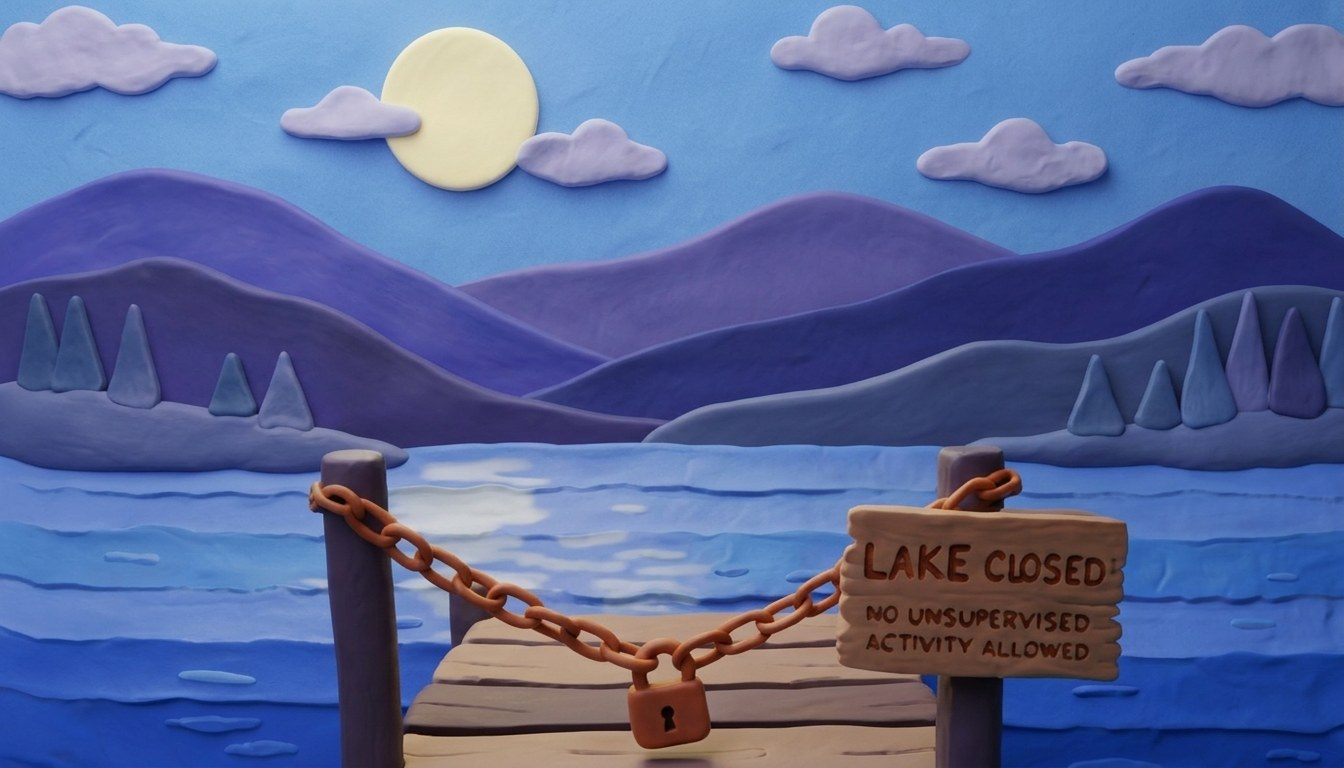
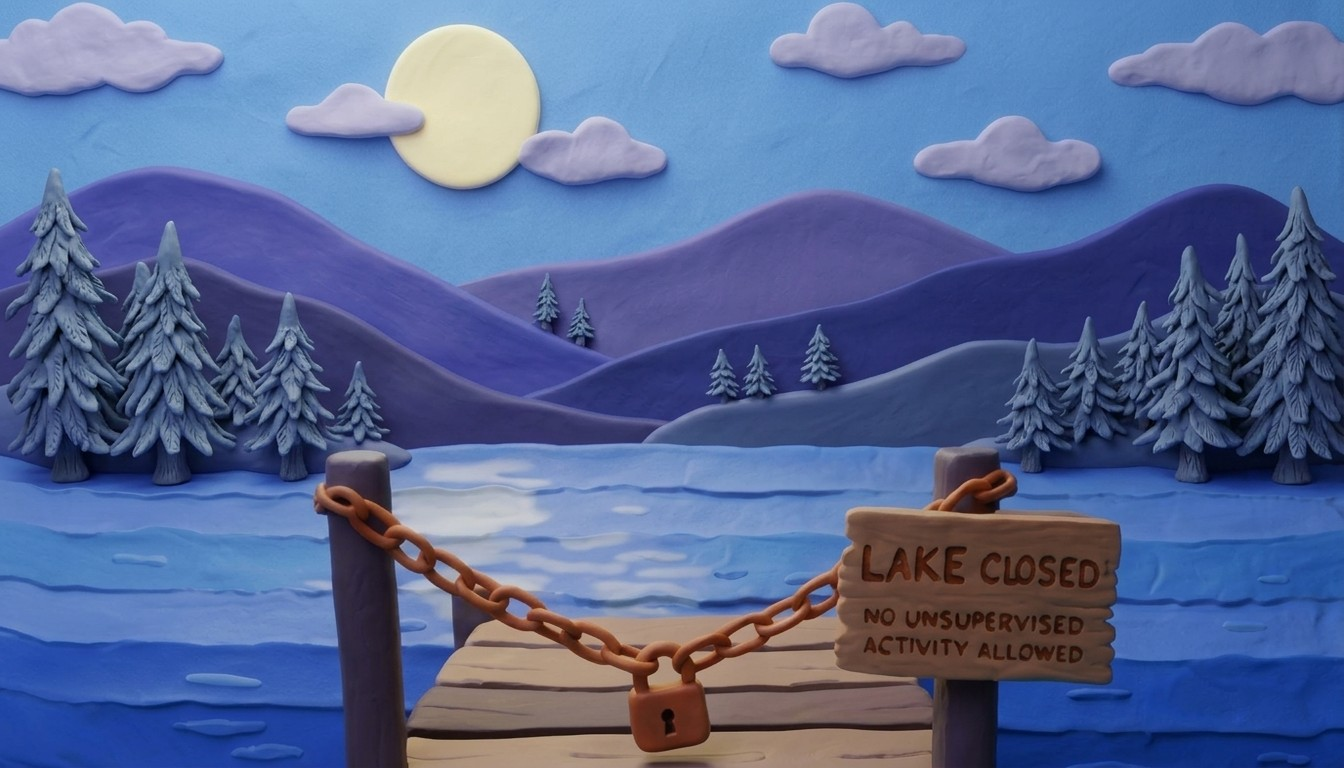
Cabin site: clay trees at the lake and time-of-day sightings (stars, fireflies, deer, fish, ducks, bats, perching bird)
Claude-Session: https://claude.ai/code/session_017UCt1yh6wM11RSMuh2VTku

diff --git a/docs/index.html b/docs/index.html
@@ -91,6 +91,16 @@ button{font:inherit;color:inherit}
 #s-tv.tvoff #pwr i{animation:pwrpulse 1.6s ease-in-out infinite}
 @keyframes pwrpulse{50%{box-shadow:0 0 0 3px #ff6b5e,0 0 26px #ff6b5e}}
 /* ---------- hotspots ---------- */
+.lakelife{position:absolute;pointer-events:none;overflow:hidden}
+.lakelife>*{position:absolute;pointer-events:none}
+.lakelife .star{width:.28%;aspect-ratio:1;border-radius:50%;background:#fffbe8;box-shadow:0 0 6px 2px rgba(255,248,210,.75);translate:-50% -50%;animation:twinkle var(--d,3s) ease-in-out infinite;animation-delay:var(--dl,0s)}
+@keyframes twinkle{0%,100%{opacity:.15;scale:.6}50%{opacity:1;scale:1.15}}
+.lakelife .ffly{width:.36%;aspect-ratio:1;border-radius:50%;background:#f6ff8a;box-shadow:0 0 8px 3px rgba(220,255,90,.8);translate:-50% -50%}
+.lakelife .shoot{height:.25%;width:9%;border-radius:2px;background:linear-gradient(90deg,transparent,#fff);transform-origin:100% 50%;rotate:24deg;opacity:0}
+.lakelife img{display:block;translate:-50% -100%}
+.lakelife.day img{filter:brightness(.88) saturate(.75)}.lakelife.dawn img{filter:brightness(.82) saturate(.8) sepia(.12)}.lakelife.dusk img{filter:brightness(.72) saturate(.85) sepia(.2)}.lakelife.night img{filter:brightness(.55) saturate(.55) hue-rotate(-12deg)}
+.lakelife .ripple{border:2px solid rgba(235,245,255,.75);border-radius:50%;translate:-50% -50%;width:3%;aspect-ratio:3.2;animation:ripple 1.6s ease-out forwards}
+@keyframes ripple{from{scale:.2;opacity:.9}to{scale:2.4;opacity:0}}
 .peekbg{position:absolute;inset:0;transform:scale(1.3) translate(-4%,-14%);transition:transform 1.1s cubic-bezier(.5,0,.2,1);will-change:transform}
 .boards{position:absolute;inset:0;width:100%;height:100%;object-fit:cover;z-index:4;pointer-events:none;filter:brightness(.85)}
 .boards{transition:transform 1.1s cubic-bezier(.5,0,.2,1),filter 1.1s;transform-origin:51% 43%;will-change:transform}
@@ -433,9 +443,10 @@ button{font:inherit;color:inherit}
 
     <section class="scene" id="s-dock" data-crumb="The dock" data-back="inside">
       <div class="peekbg" id="peekbg">
-        <img class="bg" id="dockImg" src="img/dock-night.jpg?v=7" alt="Peeking through the boarded, hacked-up back door at the layered clay lake view from the dock: stacked mountains, puffy clay clouds, the dock chained shut with a padlock and a clay sign reading LAKE CLOSED, NO UNSUPERVISED ACTIVITY ALLOWED" width="1344" height="768">
+        <img class="bg" id="dockImg" src="img/dock-night.jpg?v=8" alt="Peeking through the boarded, hacked-up back door at the layered clay lake view from the dock: stacked mountains, puffy clay clouds, the dock chained shut with a padlock and a clay sign reading LAKE CLOSED, NO UNSUPERVISED ACTIVITY ALLOWED" width="1344" height="768">
         <button class="secret" id="signSpot" style="left:62.5%;top:65.5%;width:21.5%;height:23.5%" aria-label="Read the sign"></button>
         <button class="secret" id="padlock" style="left:44%;top:82%;width:11%;height:16%;cursor:pointer" aria-label="The padlock"></button>
+        <div class="lakelife" id="lakeLife" aria-hidden="true"></div>
         <div class="fog"></div>
       </div>
       <img class="boards" src="img/boards.webp?v=6" alt="" aria-hidden="true">
@@ -982,6 +993,7 @@ button{font:inherit;color:inherit}
   function center(){ vp.scrollLeft=(vp.scrollWidth-vp.clientWidth)/2; $('hint').hidden=vp.scrollWidth<=vp.clientWidth+4 }
   function show(name, from){
     if(name!=='dock') DOCKLOOK.leave(); else if(cur!=='dock') DOCKLOOK.enter();
+    if(window.LAKELIFE){ if(name!=='dock') LAKELIFE.stop(); else if(cur!=='dock') setTimeout(LAKELIFE.start,0) }
     if(name!=='tree' && window.TRIM) TRIM.leave();
     if(name==='altar') name='tv';
     if(SCENES.indexOf(name)<0) name='exterior';
@@ -1202,8 +1214,8 @@ button{font:inherit;color:inherit}
     else if(now>=t.rise+60 && now<t.set-60) ph='day';
     else if(now>=t.set-60 && now<t.set+30) ph='dusk';
     else ph='night';
-    DOCK_PH=ph; if(cur==='dock') K.dock(ph);
-    var img=$('dockImg'), src='img/dock-'+ph+(LAKE_OPEN?'-open':'')+'.jpg?v=7';
+    var phChanged=DOCK_PH!==ph; DOCK_PH=ph; if(cur==='dock'){ K.dock(ph); if(phChanged&&window.LAKELIFE) LAKELIFE.start() }
+    var img=$('dockImg'), src='img/dock-'+((/[?&]lake=(dawn|day|dusk|night)/.exec(location.search)||[])[1]||ph)+(LAKE_OPEN?'-open':'')+'.jpg?v='+(LAKE_OPEN?7:8);
     if(img.getAttribute('src')!==src) img.setAttribute('src',src);
     var after=now>=t.set, before=now<t.rise;
     $('dockClock').innerHTML=fmt(now)+'<small>'+(before?'Sunrise at '+fmt(t.rise):after?'Sun set at '+fmt(t.set):'Sunset at '+fmt(t.set))+'</small>';
@@ -1212,6 +1224,77 @@ button{font:inherit;color:inherit}
     $('dockCount').textContent=days>1?'He surfaces in '+days+' days':days===1?'He surfaces tomorrow':'He has surfaced';
   }
   dockPhase(); setInterval(dockPhase,60000);
+
+  // ---- Life at the lake (George 2026-11-28): every look out is a different sighting for the time of day ----
+  (function(){
+    var LL=$('lakeLife'), sc=$('s-dock'); if(!LL) return;
+    var RM=matchMedia('(prefers-reduced-motion: reduce)').matches, acts=[], timers=[], phNow='', visit=0;
+    function fit(){ var r=sc.getBoundingClientRect(), k=Math.max(r.width/1344,r.height/768), w=1344*k, h=768*k;
+      LL.style.width=w+'px'; LL.style.height=h+'px'; LL.style.left=(r.width-w)/2+'px'; LL.style.top=(r.height-h)/2+'px' }
+    window.addEventListener('resize',fit);
+    function mk(tag,cls,st){ var e=document.createElement(tag); if(cls) e.className=cls; for(var k in st) e.style[k]=st[k]; LL.appendChild(e); return e }
+    function sprite(name,w){ var e=mk('img','',{width:w+'%'}); e.src='img/lake/'+name+'.webp?v=1'; e.alt=''; return e }
+    function later(f,ms){ timers.push(setTimeout(f,ms)) }
+    function R(a,b){ return a+Math.random()*(b-a) }
+    function clear(){ timers.forEach(clearTimeout); timers=[]; acts=[]; LL.innerHTML='' }
+    // path animation helper: f(t) -> {x,y,s?,img?}; t from 0..1 over dur ms
+    function run(e,dur,f,done){ var a={e:e,t0:performance.now(),dur:dur,f:f,done:done}; acts.push(a); return a }
+    function frame(now){ requestAnimationFrame(frame); if(cur!=='dock') return;
+      for(var i=acts.length-1;i>=0;i--){ var a=acts[i], t=Math.min(1,(now-a.t0)/a.dur), p=a.f(t,now);
+        a.e.style.left=p.x+'%'; a.e.style.top=p.y+'%'; if(p.o!=null) a.e.style.opacity=p.o; if(p.tf!=null) a.e.style.transform=p.tf;
+        if(t>=1){ acts.splice(i,1); if(a.done) a.done() } } }
+    requestAnimationFrame(frame);
+    // --- ambient: stars and fireflies at night ---
+    function stars(){ for(var i=0;i<34;i++){ var x=R(2,98), y=R(2,21); if(x>25&&x<42&&y<26) continue;
+        mk('i','star',{left:x+'%',top:y+'%','--d':R(1.8,4.2).toFixed(2)+'s','--dl':'-'+R(0,4).toFixed(2)+'s'}) } }
+    function shooting(){ var s=mk('i','shoot',{}); var x0=R(15,70), y0=R(2,10);
+      run(s,900,function(t){ return {x:x0+t*14,y:y0+t*6,o:t<.2?t*5:1-(t-.2)/.8} },function(){ s.remove() });
+      later(shooting,R(9000,20000)) }
+    function fireflies(){ for(var i=0;i<14;i++){ (function(){ var f=mk('i','ffly',{}), left=Math.random()<.5, bx=left?R(2,22):R(76,98), by=R(44,58), ph=R(0,6.28), sp=R(.4,.9);
+        run(f,1e9,function(t,now){ var s=now/1000*sp+ph; return {x:bx+Math.sin(s*.7)*2.2,y:by+Math.sin(s*1.1)*1.6,o:(.25+.75*Math.max(0,Math.sin(s*2.3)))} }) })() } }
+    // --- sightings ---
+    function fishJump(){ var spots=[[8,68],[14,74],[40,63],[57,62],[92,64],[95,74]], s=spots[Math.random()*spots.length|0], dir=Math.random()<.5?1:-1, f=sprite('fish',2.6);
+      run(f,1300,function(t){ var y=s[1]-Math.sin(t*Math.PI)*7; return {x:s[0]+dir*(t-.5)*6,y:y,tf:'scaleX('+(-dir)+') rotate('+(-dir*(t-.5)*120)+'deg)',o:t<.06||t>.94?0:1} },function(){ f.remove(); mk('i','ripple',{left:(s[0]+dir*3)+'%',top:s[1]+'%'}) });
+      mk('i','ripple',{left:(s[0]-dir*3)+'%',top:s[1]+'%'});
+      later(fishJump,R(5000,11000)) }
+    function deer(){ var x=R(9,17), base=57.4, d=sprite('deer-up',6.2); d.style.transform='scaleX(-1)'; d.style.left=x+'%'; d.style.top=base+'%'; d.style.opacity=0; d.style.transition='opacity 1.5s';
+      later(function(){ d.style.opacity=1 },300);
+      var down=false; (function bob(){ down=!down; d.src='img/lake/deer-'+(down?'drink':'up')+'.webp?v=1'; d.style.width='6.2%'; later(bob,down?R(2600,5200):R(1500,3200)) })() }
+    function ducks(){ var y=59.2;
+      [0,1].forEach(function(i){ var du=sprite('duck',i?2.5:3.1);
+        run(du,RM?1:52000,function(t,now){ return {x:30+t*40-i*3.2,y:y+Math.sin(now/600+i)*.15,o:t<.03?t/.03:t>.97?(1-t)/.03:1} },function(){ du.remove() }) });
+      later(ducks,R(60000,80000)) }
+    function bats(){ var n=3; for(var i=0;i<n;i++){ (function(i){ var b=sprite('bat-up',2.4), y0=R(24,40), dir=Math.random()<.5?1:-1, sp=R(5000,8000);
+        run(b,sp,function(t,now){ var fl=Math.floor(now/110)%2; var want='img/lake/bat-'+(fl?'up':'down')+'.webp?v=1'; if(b.getAttribute('src')!==want) b.setAttribute('src',want);
+          return {x:dir>0?-4+t*108:104-t*108,y:y0+Math.sin(t*18+i)*3,tf:dir>0?'':'scaleX(-1)'} },function(){ b.remove() }) })(i) }
+      later(bats,R(7000,14000)) }
+    function birdPerch(){ var post=Math.random()<.5?{x:26.4,y:58.7}:{x:71.8,y:58.4}, fromL=Math.random()<.5, b=sprite('bird-up',3), sx=fromL?-5:105, sy=R(18,34);
+      if(!fromL) b.style.scale='-1 1';
+      run(b,4200,function(t,now){ var e=1-Math.pow(1-t,2.2), fl=Math.floor(now/120)%2; var nm=t>.82?'bird-land':(fl?'bird-up':'bird-down'); var want='img/lake/'+nm+'.webp?v=1'; if(b.getAttribute('src')!==want) b.setAttribute('src',want);
+        return {x:sx+(post.x-sx)*e,y:sy+(post.y-sy)*e-Math.sin(t*Math.PI)*4} },function(){
+        b.src='img/lake/bird-perch.webp?v=1'; b.style.width='2.4%';
+        // hop and look around, then fly off
+        var hops=0; (function look(){ b.style.scale=(b.style.scale==='-1 1')?'1 1':'-1 1'; if(++hops<5) later(look,R(1200,2600)); else later(function(){ b.src='img/lake/bird-up.webp?v=1'; b.style.width='3%'; var ex=fromL?105:-5;
+            b.style.scale=fromL?'1 1':'-1 1';
+            run(b,3200,function(t,now){ var fl=Math.floor(now/110)%2; b.src='img/lake/bird-'+(fl?'up':'down')+'.webp?v=1'; return {x:post.x+(ex-post.x)*t,y:post.y-t*30} },function(){ b.remove(); later(birdPerch,R(15000,30000)) }) },900) })() }) }
+    function birdsFly(){ for(var i=0;i<2;i++){ (function(i){ var b=sprite('bird-up',2), y=R(10,26), dir=Math.random()<.5?1:-1;
+        if(dir<0) b.style.scale='-1 1';
+        run(b,R(7000,10000),function(t,now){ var fl=Math.floor(now/140+i)%2; var want='img/lake/bird-'+(fl?'up':'down')+'.webp?v=1'; if(b.getAttribute('src')!==want) b.setAttribute('src',want);
+          return {x:dir>0?-4+t*108-i*4:104-t*108+i*4,y:y+Math.sin(t*9+i)*1.5+i*2} },function(){ b.remove() }) })(i) }
+      later(birdsFly,R(14000,26000)) }
+    var POOL={
+      night:[[shooting],[fishJump],[bats],[shooting,fishJump]],
+      dawn:[[fishJump],[birdPerch],[fishJump,birdPerch],[ducks]],
+      day:[[deer,birdPerch],[deer],[birdPerch,fishJump],[ducks,birdsFly],[deer,birdsFly]],
+      dusk:[[bats],[ducks,bats],[deer,bats],[fishJump,ducks]]
+    };
+    function start(){ clear(); fit(); var ph=(/[?&]lake=(dawn|day|dusk|night)/.exec(location.search)||[])[1]||DOCK_PH; phNow=ph; visit++; LL.className='lakelife '+ph;
+      if(ph==='night'){ stars(); fireflies() }
+      if(RM) return;
+      var pool=POOL[ph], pick=pool[(visit*7+Math.floor(Math.random()*pool.length))%pool.length];
+      pick.forEach(function(f,i){ later(f,1200+i*2500) }) }
+    window.LAKELIFE={start:start,stop:clear,play:function(n){ ({deer:deer,ducks:ducks,bats:bats,birdPerch:birdPerch,fishJump:fishJump,birdsFly:birdsFly,shooting:shooting})[n]() }};
+  })();
 
   show(location.hash.slice(1)||'exterior');
 })();

diff --git a/site/world/index.html b/site/world/index.html
@@ -91,6 +91,16 @@ button{font:inherit;color:inherit}
 #s-tv.tvoff #pwr i{animation:pwrpulse 1.6s ease-in-out infinite}
 @keyframes pwrpulse{50%{box-shadow:0 0 0 3px #ff6b5e,0 0 26px #ff6b5e}}
 /* ---------- hotspots ---------- */
+.lakelife{position:absolute;pointer-events:none;overflow:hidden}
+.lakelife>*{position:absolute;pointer-events:none}
+.lakelife .star{width:.28%;aspect-ratio:1;border-radius:50%;background:#fffbe8;box-shadow:0 0 6px 2px rgba(255,248,210,.75);translate:-50% -50%;animation:twinkle var(--d,3s) ease-in-out infinite;animation-delay:var(--dl,0s)}
+@keyframes twinkle{0%,100%{opacity:.15;scale:.6}50%{opacity:1;scale:1.15}}
+.lakelife .ffly{width:.36%;aspect-ratio:1;border-radius:50%;background:#f6ff8a;box-shadow:0 0 8px 3px rgba(220,255,90,.8);translate:-50% -50%}
+.lakelife .shoot{height:.25%;width:9%;border-radius:2px;background:linear-gradient(90deg,transparent,#fff);transform-origin:100% 50%;rotate:24deg;opacity:0}
+.lakelife img{display:block;translate:-50% -100%}
+.lakelife.day img{filter:brightness(.88) saturate(.75)}.lakelife.dawn img{filter:brightness(.82) saturate(.8) sepia(.12)}.lakelife.dusk img{filter:brightness(.72) saturate(.85) sepia(.2)}.lakelife.night img{filter:brightness(.55) saturate(.55) hue-rotate(-12deg)}
+.lakelife .ripple{border:2px solid rgba(235,245,255,.75);border-radius:50%;translate:-50% -50%;width:3%;aspect-ratio:3.2;animation:ripple 1.6s ease-out forwards}
+@keyframes ripple{from{scale:.2;opacity:.9}to{scale:2.4;opacity:0}}
 .peekbg{position:absolute;inset:0;transform:scale(1.3) translate(-4%,-14%);transition:transform 1.1s cubic-bezier(.5,0,.2,1);will-change:transform}
 .boards{position:absolute;inset:0;width:100%;height:100%;object-fit:cover;z-index:4;pointer-events:none;filter:brightness(.85)}
 .boards{transition:transform 1.1s cubic-bezier(.5,0,.2,1),filter 1.1s;transform-origin:51% 43%;will-change:transform}
@@ -433,9 +443,10 @@ button{font:inherit;color:inherit}
 
     <section class="scene" id="s-dock" data-crumb="The dock" data-back="inside">
       <div class="peekbg" id="peekbg">
-        <img class="bg" id="dockImg" src="img/dock-night.jpg?v=7" alt="Peeking through the boarded, hacked-up back door at the layered clay lake view from the dock: stacked mountains, puffy clay clouds, the dock chained shut with a padlock and a clay sign reading LAKE CLOSED, NO UNSUPERVISED ACTIVITY ALLOWED" width="1344" height="768">
+        <img class="bg" id="dockImg" src="img/dock-night.jpg?v=8" alt="Peeking through the boarded, hacked-up back door at the layered clay lake view from the dock: stacked mountains, puffy clay clouds, the dock chained shut with a padlock and a clay sign reading LAKE CLOSED, NO UNSUPERVISED ACTIVITY ALLOWED" width="1344" height="768">
         <button class="secret" id="signSpot" style="left:62.5%;top:65.5%;width:21.5%;height:23.5%" aria-label="Read the sign"></button>
         <button class="secret" id="padlock" style="left:44%;top:82%;width:11%;height:16%;cursor:pointer" aria-label="The padlock"></button>
+        <div class="lakelife" id="lakeLife" aria-hidden="true"></div>
         <div class="fog"></div>
       </div>
       <img class="boards" src="img/boards.webp?v=6" alt="" aria-hidden="true">
@@ -982,6 +993,7 @@ button{font:inherit;color:inherit}
   function center(){ vp.scrollLeft=(vp.scrollWidth-vp.clientWidth)/2; $('hint').hidden=vp.scrollWidth<=vp.clientWidth+4 }
   function show(name, from){
     if(name!=='dock') DOCKLOOK.leave(); else if(cur!=='dock') DOCKLOOK.enter();
+    if(window.LAKELIFE){ if(name!=='dock') LAKELIFE.stop(); else if(cur!=='dock') setTimeout(LAKELIFE.start,0) }
     if(name!=='tree' && window.TRIM) TRIM.leave();
     if(name==='altar') name='tv';
     if(SCENES.indexOf(name)<0) name='exterior';
@@ -1202,8 +1214,8 @@ button{font:inherit;color:inherit}
     else if(now>=t.rise+60 && now<t.set-60) ph='day';
     else if(now>=t.set-60 && now<t.set+30) ph='dusk';
     else ph='night';
-    DOCK_PH=ph; if(cur==='dock') K.dock(ph);
-    var img=$('dockImg'), src='img/dock-'+ph+(LAKE_OPEN?'-open':'')+'.jpg?v=7';
+    var phChanged=DOCK_PH!==ph; DOCK_PH=ph; if(cur==='dock'){ K.dock(ph); if(phChanged&&window.LAKELIFE) LAKELIFE.start() }
+    var img=$('dockImg'), src='img/dock-'+((/[?&]lake=(dawn|day|dusk|night)/.exec(location.search)||[])[1]||ph)+(LAKE_OPEN?'-open':'')+'.jpg?v='+(LAKE_OPEN?7:8);
     if(img.getAttribute('src')!==src) img.setAttribute('src',src);
     var after=now>=t.set, before=now<t.rise;
     $('dockClock').innerHTML=fmt(now)+'<small>'+(before?'Sunrise at '+fmt(t.rise):after?'Sun set at '+fmt(t.set):'Sunset at '+fmt(t.set))+'</small>';
@@ -1212,6 +1224,77 @@ button{font:inherit;color:inherit}
     $('dockCount').textContent=days>1?'He surfaces in '+days+' days':days===1?'He surfaces tomorrow':'He has surfaced';
   }
   dockPhase(); setInterval(dockPhase,60000);
+
+  // ---- Life at the lake (George 2026-11-28): every look out is a different sighting for the time of day ----
+  (function(){
+    var LL=$('lakeLife'), sc=$('s-dock'); if(!LL) return;
+    var RM=matchMedia('(prefers-reduced-motion: reduce)').matches, acts=[], timers=[], phNow='', visit=0;
+    function fit(){ var r=sc.getBoundingClientRect(), k=Math.max(r.width/1344,r.height/768), w=1344*k, h=768*k;
+      LL.style.width=w+'px'; LL.style.height=h+'px'; LL.style.left=(r.width-w)/2+'px'; LL.style.top=(r.height-h)/2+'px' }
+    window.addEventListener('resize',fit);
+    function mk(tag,cls,st){ var e=document.createElement(tag); if(cls) e.className=cls; for(var k in st) e.style[k]=st[k]; LL.appendChild(e); return e }
+    function sprite(name,w){ var e=mk('img','',{width:w+'%'}); e.src='img/lake/'+name+'.webp?v=1'; e.alt=''; return e }
+    function later(f,ms){ timers.push(setTimeout(f,ms)) }
+    function R(a,b){ return a+Math.random()*(b-a) }
+    function clear(){ timers.forEach(clearTimeout); timers=[]; acts=[]; LL.innerHTML='' }
+    // path animation helper: f(t) -> {x,y,s?,img?}; t from 0..1 over dur ms
+    function run(e,dur,f,done){ var a={e:e,t0:performance.now(),dur:dur,f:f,done:done}; acts.push(a); return a }
+    function frame(now){ requestAnimationFrame(frame); if(cur!=='dock') return;
+      for(var i=acts.length-1;i>=0;i--){ var a=acts[i], t=Math.min(1,(now-a.t0)/a.dur), p=a.f(t,now);
+        a.e.style.left=p.x+'%'; a.e.style.top=p.y+'%'; if(p.o!=null) a.e.style.opacity=p.o; if(p.tf!=null) a.e.style.transform=p.tf;
+        if(t>=1){ acts.splice(i,1); if(a.done) a.done() } } }
+    requestAnimationFrame(frame);
+    // --- ambient: stars and fireflies at night ---
+    function stars(){ for(var i=0;i<34;i++){ var x=R(2,98), y=R(2,21); if(x>25&&x<42&&y<26) continue;
+        mk('i','star',{left:x+'%',top:y+'%','--d':R(1.8,4.2).toFixed(2)+'s','--dl':'-'+R(0,4).toFixed(2)+'s'}) } }
+    function shooting(){ var s=mk('i','shoot',{}); var x0=R(15,70), y0=R(2,10);
+      run(s,900,function(t){ return {x:x0+t*14,y:y0+t*6,o:t<.2?t*5:1-(t-.2)/.8} },function(){ s.remove() });
+      later(shooting,R(9000,20000)) }
+    function fireflies(){ for(var i=0;i<14;i++){ (function(){ var f=mk('i','ffly',{}), left=Math.random()<.5, bx=left?R(2,22):R(76,98), by=R(44,58), ph=R(0,6.28), sp=R(.4,.9);
+        run(f,1e9,function(t,now){ var s=now/1000*sp+ph; return {x:bx+Math.sin(s*.7)*2.2,y:by+Math.sin(s*1.1)*1.6,o:(.25+.75*Math.max(0,Math.sin(s*2.3)))} }) })() } }
+    // --- sightings ---
+    function fishJump(){ var spots=[[8,68],[14,74],[40,63],[57,62],[92,64],[95,74]], s=spots[Math.random()*spots.length|0], dir=Math.random()<.5?1:-1, f=sprite('fish',2.6);
+      run(f,1300,function(t){ var y=s[1]-Math.sin(t*Math.PI)*7; return {x:s[0]+dir*(t-.5)*6,y:y,tf:'scaleX('+(-dir)+') rotate('+(-dir*(t-.5)*120)+'deg)',o:t<.06||t>.94?0:1} },function(){ f.remove(); mk('i','ripple',{left:(s[0]+dir*3)+'%',top:s[1]+'%'}) });
+      mk('i','ripple',{left:(s[0]-dir*3)+'%',top:s[1]+'%'});
+      later(fishJump,R(5000,11000)) }
+    function deer(){ var x=R(9,17), base=57.4, d=sprite('deer-up',6.2); d.style.transform='scaleX(-1)'; d.style.left=x+'%'; d.style.top=base+'%'; d.style.opacity=0; d.style.transition='opacity 1.5s';
+      later(function(){ d.style.opacity=1 },300);
+      var down=false; (function bob(){ down=!down; d.src='img/lake/deer-'+(down?'drink':'up')+'.webp?v=1'; d.style.width='6.2%'; later(bob,down?R(2600,5200):R(1500,3200)) })() }
+    function ducks(){ var y=59.2;
+      [0,1].forEach(function(i){ var du=sprite('duck',i?2.5:3.1);
+        run(du,RM?1:52000,function(t,now){ return {x:30+t*40-i*3.2,y:y+Math.sin(now/600+i)*.15,o:t<.03?t/.03:t>.97?(1-t)/.03:1} },function(){ du.remove() }) });
+      later(ducks,R(60000,80000)) }
+    function bats(){ var n=3; for(var i=0;i<n;i++){ (function(i){ var b=sprite('bat-up',2.4), y0=R(24,40), dir=Math.random()<.5?1:-1, sp=R(5000,8000);
+        run(b,sp,function(t,now){ var fl=Math.floor(now/110)%2; var want='img/lake/bat-'+(fl?'up':'down')+'.webp?v=1'; if(b.getAttribute('src')!==want) b.setAttribute('src',want);
+          return {x:dir>0?-4+t*108:104-t*108,y:y0+Math.sin(t*18+i)*3,tf:dir>0?'':'scaleX(-1)'} },function(){ b.remove() }) })(i) }
+      later(bats,R(7000,14000)) }
+    function birdPerch(){ var post=Math.random()<.5?{x:26.4,y:58.7}:{x:71.8,y:58.4}, fromL=Math.random()<.5, b=sprite('bird-up',3), sx=fromL?-5:105, sy=R(18,34);
+      if(!fromL) b.style.scale='-1 1';
+      run(b,4200,function(t,now){ var e=1-Math.pow(1-t,2.2), fl=Math.floor(now/120)%2; var nm=t>.82?'bird-land':(fl?'bird-up':'bird-down'); var want='img/lake/'+nm+'.webp?v=1'; if(b.getAttribute('src')!==want) b.setAttribute('src',want);
+        return {x:sx+(post.x-sx)*e,y:sy+(post.y-sy)*e-Math.sin(t*Math.PI)*4} },function(){
+        b.src='img/lake/bird-perch.webp?v=1'; b.style.width='2.4%';
+        // hop and look around, then fly off
+        var hops=0; (function look(){ b.style.scale=(b.style.scale==='-1 1')?'1 1':'-1 1'; if(++hops<5) later(look,R(1200,2600)); else later(function(){ b.src='img/lake/bird-up.webp?v=1'; b.style.width='3%'; var ex=fromL?105:-5;
+            b.style.scale=fromL?'1 1':'-1 1';
+            run(b,3200,function(t,now){ var fl=Math.floor(now/110)%2; b.src='img/lake/bird-'+(fl?'up':'down')+'.webp?v=1'; return {x:post.x+(ex-post.x)*t,y:post.y-t*30} },function(){ b.remove(); later(birdPerch,R(15000,30000)) }) },900) })() }) }
+    function birdsFly(){ for(var i=0;i<2;i++){ (function(i){ var b=sprite('bird-up',2), y=R(10,26), dir=Math.random()<.5?1:-1;
+        if(dir<0) b.style.scale='-1 1';
+        run(b,R(7000,10000),function(t,now){ var fl=Math.floor(now/140+i)%2; var want='img/lake/bird-'+(fl?'up':'down')+'.webp?v=1'; if(b.getAttribute('src')!==want) b.setAttribute('src',want);
+          return {x:dir>0?-4+t*108-i*4:104-t*108+i*4,y:y+Math.sin(t*9+i)*1.5+i*2} },function(){ b.remove() }) })(i) }
+      later(birdsFly,R(14000,26000)) }
+    var POOL={
+      night:[[shooting],[fishJump],[bats],[shooting,fishJump]],
+      dawn:[[fishJump],[birdPerch],[fishJump,birdPerch],[ducks]],
+      day:[[deer,birdPerch],[deer],[birdPerch,fishJump],[ducks,birdsFly],[deer,birdsFly]],
+      dusk:[[bats],[ducks,bats],[deer,bats],[fishJump,ducks]]
+    };
+    function start(){ clear(); fit(); var ph=(/[?&]lake=(dawn|day|dusk|night)/.exec(location.search)||[])[1]||DOCK_PH; phNow=ph; visit++; LL.className='lakelife '+ph;
+      if(ph==='night'){ stars(); fireflies() }
+      if(RM) return;
+      var pool=POOL[ph], pick=pool[(visit*7+Math.floor(Math.random()*pool.length))%pool.length];
+      pick.forEach(function(f,i){ later(f,1200+i*2500) }) }
+    window.LAKELIFE={start:start,stop:clear,play:function(n){ ({deer:deer,ducks:ducks,bats:bats,birdPerch:birdPerch,fishJump:fishJump,birdsFly:birdsFly,shooting:shooting})[n]() }};
+  })();
 
   show(location.hash.slice(1)||'exterior');
 })();

diff --git a/site/world/page.html b/site/world/page.html
@@ -86,6 +86,16 @@ button{font:inherit;color:inherit}
 #s-tv.tvoff #pwr i{animation:pwrpulse 1.6s ease-in-out infinite}
 @keyframes pwrpulse{50%{box-shadow:0 0 0 3px #ff6b5e,0 0 26px #ff6b5e}}
 /* ---------- hotspots ---------- */
+.lakelife{position:absolute;pointer-events:none;overflow:hidden}
+.lakelife>*{position:absolute;pointer-events:none}
+.lakelife .star{width:.28%;aspect-ratio:1;border-radius:50%;background:#fffbe8;box-shadow:0 0 6px 2px rgba(255,248,210,.75);translate:-50% -50%;animation:twinkle var(--d,3s) ease-in-out infinite;animation-delay:var(--dl,0s)}
+@keyframes twinkle{0%,100%{opacity:.15;scale:.6}50%{opacity:1;scale:1.15}}
+.lakelife .ffly{width:.36%;aspect-ratio:1;border-radius:50%;background:#f6ff8a;box-shadow:0 0 8px 3px rgba(220,255,90,.8);translate:-50% -50%}
+.lakelife .shoot{height:.25%;width:9%;border-radius:2px;background:linear-gradient(90deg,transparent,#fff);transform-origin:100% 50%;rotate:24deg;opacity:0}
+.lakelife img{display:block;translate:-50% -100%}
+.lakelife.day img{filter:brightness(.88) saturate(.75)}.lakelife.dawn img{filter:brightness(.82) saturate(.8) sepia(.12)}.lakelife.dusk img{filter:brightness(.72) saturate(.85) sepia(.2)}.lakelife.night img{filter:brightness(.55) saturate(.55) hue-rotate(-12deg)}
+.lakelife .ripple{border:2px solid rgba(235,245,255,.75);border-radius:50%;translate:-50% -50%;width:3%;aspect-ratio:3.2;animation:ripple 1.6s ease-out forwards}
+@keyframes ripple{from{scale:.2;opacity:.9}to{scale:2.4;opacity:0}}
 .peekbg{position:absolute;inset:0;transform:scale(1.3) translate(-4%,-14%);transition:transform 1.1s cubic-bezier(.5,0,.2,1);will-change:transform}
 .boards{position:absolute;inset:0;width:100%;height:100%;object-fit:cover;z-index:4;pointer-events:none;filter:brightness(.85)}
 .boards{transition:transform 1.1s cubic-bezier(.5,0,.2,1),filter 1.1s;transform-origin:51% 43%;will-change:transform}
@@ -428,9 +438,10 @@ button{font:inherit;color:inherit}
 
     <section class="scene" id="s-dock" data-crumb="The dock" data-back="inside">
       <div class="peekbg" id="peekbg">
-        <img class="bg" id="dockImg" src="img/dock-night.jpg?v=7" alt="Peeking through the boarded, hacked-up back door at the layered clay lake view from the dock: stacked mountains, puffy clay clouds, the dock chained shut with a padlock and a clay sign reading LAKE CLOSED, NO UNSUPERVISED ACTIVITY ALLOWED" width="1344" height="768">
+        <img class="bg" id="dockImg" src="img/dock-night.jpg?v=8" alt="Peeking through the boarded, hacked-up back door at the layered clay lake view from the dock: stacked mountains, puffy clay clouds, the dock chained shut with a padlock and a clay sign reading LAKE CLOSED, NO UNSUPERVISED ACTIVITY ALLOWED" width="1344" height="768">
         <button class="secret" id="signSpot" style="left:62.5%;top:65.5%;width:21.5%;height:23.5%" aria-label="Read the sign"></button>
         <button class="secret" id="padlock" style="left:44%;top:82%;width:11%;height:16%;cursor:pointer" aria-label="The padlock"></button>
+        <div class="lakelife" id="lakeLife" aria-hidden="true"></div>
         <div class="fog"></div>
       </div>
       <img class="boards" src="img/boards.webp?v=6" alt="" aria-hidden="true">
@@ -977,6 +988,7 @@ button{font:inherit;color:inherit}
   function center(){ vp.scrollLeft=(vp.scrollWidth-vp.clientWidth)/2; $('hint').hidden=vp.scrollWidth<=vp.clientWidth+4 }
   function show(name, from){
     if(name!=='dock') DOCKLOOK.leave(); else if(cur!=='dock') DOCKLOOK.enter();
+    if(window.LAKELIFE){ if(name!=='dock') LAKELIFE.stop(); else if(cur!=='dock') setTimeout(LAKELIFE.start,0) }
     if(name!=='tree' && window.TRIM) TRIM.leave();
     if(name==='altar') name='tv';
     if(SCENES.indexOf(name)<0) name='exterior';
@@ -1197,8 +1209,8 @@ button{font:inherit;color:inherit}
     else if(now>=t.rise+60 && now<t.set-60) ph='day';
     else if(now>=t.set-60 && now<t.set+30) ph='dusk';
     else ph='night';
-    DOCK_PH=ph; if(cur==='dock') K.dock(ph);
-    var img=$('dockImg'), src='img/dock-'+ph+(LAKE_OPEN?'-open':'')+'.jpg?v=7';
+    var phChanged=DOCK_PH!==ph; DOCK_PH=ph; if(cur==='dock'){ K.dock(ph); if(phChanged&&window.LAKELIFE) LAKELIFE.start() }
+    var img=$('dockImg'), src='img/dock-'+((/[?&]lake=(dawn|day|dusk|night)/.exec(location.search)||[])[1]||ph)+(LAKE_OPEN?'-open':'')+'.jpg?v='+(LAKE_OPEN?7:8);
     if(img.getAttribute('src')!==src) img.setAttribute('src',src);
     var after=now>=t.set, before=now<t.rise;
     $('dockClock').innerHTML=fmt(now)+'<small>'+(before?'Sunrise at '+fmt(t.rise):after?'Sun set at '+fmt(t.set):'Sunset at '+fmt(t.set))+'</small>';
@@ -1207,6 +1219,77 @@ button{font:inherit;color:inherit}
     $('dockCount').textContent=days>1?'He surfaces in '+days+' days':days===1?'He surfaces tomorrow':'He has surfaced';
   }
   dockPhase(); setInterval(dockPhase,60000);
+
+  // ---- Life at the lake (George 2026-11-28): every look out is a different sighting for the time of day ----
+  (function(){
+    var LL=$('lakeLife'), sc=$('s-dock'); if(!LL) return;
+    var RM=matchMedia('(prefers-reduced-motion: reduce)').matches, acts=[], timers=[], phNow='', visit=0;
+    function fit(){ var r=sc.getBoundingClientRect(), k=Math.max(r.width/1344,r.height/768), w=1344*k, h=768*k;
+      LL.style.width=w+'px'; LL.style.height=h+'px'; LL.style.left=(r.width-w)/2+'px'; LL.style.top=(r.height-h)/2+'px' }
+    window.addEventListener('resize',fit);
+    function mk(tag,cls,st){ var e=document.createElement(tag); if(cls) e.className=cls; for(var k in st) e.style[k]=st[k]; LL.appendChild(e); return e }
+    function sprite(name,w){ var e=mk('img','',{width:w+'%'}); e.src='img/lake/'+name+'.webp?v=1'; e.alt=''; return e }
+    function later(f,ms){ timers.push(setTimeout(f,ms)) }
+    function R(a,b){ return a+Math.random()*(b-a) }
+    function clear(){ timers.forEach(clearTimeout); timers=[]; acts=[]; LL.innerHTML='' }
+    // path animation helper: f(t) -> {x,y,s?,img?}; t from 0..1 over dur ms
+    function run(e,dur,f,done){ var a={e:e,t0:performance.now(),dur:dur,f:f,done:done}; acts.push(a); return a }
+    function frame(now){ requestAnimationFrame(frame); if(cur!=='dock') return;
+      for(var i=acts.length-1;i>=0;i--){ var a=acts[i], t=Math.min(1,(now-a.t0)/a.dur), p=a.f(t,now);
+        a.e.style.left=p.x+'%'; a.e.style.top=p.y+'%'; if(p.o!=null) a.e.style.opacity=p.o; if(p.tf!=null) a.e.style.transform=p.tf;
+        if(t>=1){ acts.splice(i,1); if(a.done) a.done() } } }
+    requestAnimationFrame(frame);
+    // --- ambient: stars and fireflies at night ---
+    function stars(){ for(var i=0;i<34;i++){ var x=R(2,98), y=R(2,21); if(x>25&&x<42&&y<26) continue;
+        mk('i','star',{left:x+'%',top:y+'%','--d':R(1.8,4.2).toFixed(2)+'s','--dl':'-'+R(0,4).toFixed(2)+'s'}) } }
+    function shooting(){ var s=mk('i','shoot',{}); var x0=R(15,70), y0=R(2,10);
+      run(s,900,function(t){ return {x:x0+t*14,y:y0+t*6,o:t<.2?t*5:1-(t-.2)/.8} },function(){ s.remove() });
+      later(shooting,R(9000,20000)) }
+    function fireflies(){ for(var i=0;i<14;i++){ (function(){ var f=mk('i','ffly',{}), left=Math.random()<.5, bx=left?R(2,22):R(76,98), by=R(44,58), ph=R(0,6.28), sp=R(.4,.9);
+        run(f,1e9,function(t,now){ var s=now/1000*sp+ph; return {x:bx+Math.sin(s*.7)*2.2,y:by+Math.sin(s*1.1)*1.6,o:(.25+.75*Math.max(0,Math.sin(s*2.3)))} }) })() } }
+    // --- sightings ---
+    function fishJump(){ var spots=[[8,68],[14,74],[40,63],[57,62],[92,64],[95,74]], s=spots[Math.random()*spots.length|0], dir=Math.random()<.5?1:-1, f=sprite('fish',2.6);
+      run(f,1300,function(t){ var y=s[1]-Math.sin(t*Math.PI)*7; return {x:s[0]+dir*(t-.5)*6,y:y,tf:'scaleX('+(-dir)+') rotate('+(-dir*(t-.5)*120)+'deg)',o:t<.06||t>.94?0:1} },function(){ f.remove(); mk('i','ripple',{left:(s[0]+dir*3)+'%',top:s[1]+'%'}) });
+      mk('i','ripple',{left:(s[0]-dir*3)+'%',top:s[1]+'%'});
+      later(fishJump,R(5000,11000)) }
+    function deer(){ var x=R(9,17), base=57.4, d=sprite('deer-up',6.2); d.style.transform='scaleX(-1)'; d.style.left=x+'%'; d.style.top=base+'%'; d.style.opacity=0; d.style.transition='opacity 1.5s';
+      later(function(){ d.style.opacity=1 },300);
+      var down=false; (function bob(){ down=!down; d.src='img/lake/deer-'+(down?'drink':'up')+'.webp?v=1'; d.style.width='6.2%'; later(bob,down?R(2600,5200):R(1500,3200)) })() }
+    function ducks(){ var y=59.2;
+      [0,1].forEach(function(i){ var du=sprite('duck',i?2.5:3.1);
+        run(du,RM?1:52000,function(t,now){ return {x:30+t*40-i*3.2,y:y+Math.sin(now/600+i)*.15,o:t<.03?t/.03:t>.97?(1-t)/.03:1} },function(){ du.remove() }) });
+      later(ducks,R(60000,80000)) }
+    function bats(){ var n=3; for(var i=0;i<n;i++){ (function(i){ var b=sprite('bat-up',2.4), y0=R(24,40), dir=Math.random()<.5?1:-1, sp=R(5000,8000);
+        run(b,sp,function(t,now){ var fl=Math.floor(now/110)%2; var want='img/lake/bat-'+(fl?'up':'down')+'.webp?v=1'; if(b.getAttribute('src')!==want) b.setAttribute('src',want);
+          return {x:dir>0?-4+t*108:104-t*108,y:y0+Math.sin(t*18+i)*3,tf:dir>0?'':'scaleX(-1)'} },function(){ b.remove() }) })(i) }
+      later(bats,R(7000,14000)) }
+    function birdPerch(){ var post=Math.random()<.5?{x:26.4,y:58.7}:{x:71.8,y:58.4}, fromL=Math.random()<.5, b=sprite('bird-up',3), sx=fromL?-5:105, sy=R(18,34);
+      if(!fromL) b.style.scale='-1 1';
+      run(b,4200,function(t,now){ var e=1-Math.pow(1-t,2.2), fl=Math.floor(now/120)%2; var nm=t>.82?'bird-land':(fl?'bird-up':'bird-down'); var want='img/lake/'+nm+'.webp?v=1'; if(b.getAttribute('src')!==want) b.setAttribute('src',want);
+        return {x:sx+(post.x-sx)*e,y:sy+(post.y-sy)*e-Math.sin(t*Math.PI)*4} },function(){
+        b.src='img/lake/bird-perch.webp?v=1'; b.style.width='2.4%';
+        // hop and look around, then fly off
+        var hops=0; (function look(){ b.style.scale=(b.style.scale==='-1 1')?'1 1':'-1 1'; if(++hops<5) later(look,R(1200,2600)); else later(function(){ b.src='img/lake/bird-up.webp?v=1'; b.style.width='3%'; var ex=fromL?105:-5;
+            b.style.scale=fromL?'1 1':'-1 1';
+            run(b,3200,function(t,now){ var fl=Math.floor(now/110)%2; b.src='img/lake/bird-'+(fl?'up':'down')+'.webp?v=1'; return {x:post.x+(ex-post.x)*t,y:post.y-t*30} },function(){ b.remove(); later(birdPerch,R(15000,30000)) }) },900) })() }) }
+    function birdsFly(){ for(var i=0;i<2;i++){ (function(i){ var b=sprite('bird-up',2), y=R(10,26), dir=Math.random()<.5?1:-1;
+        if(dir<0) b.style.scale='-1 1';
+        run(b,R(7000,10000),function(t,now){ var fl=Math.floor(now/140+i)%2; var want='img/lake/bird-'+(fl?'up':'down')+'.webp?v=1'; if(b.getAttribute('src')!==want) b.setAttribute('src',want);
+          return {x:dir>0?-4+t*108-i*4:104-t*108+i*4,y:y+Math.sin(t*9+i)*1.5+i*2} },function(){ b.remove() }) })(i) }
+      later(birdsFly,R(14000,26000)) }
+    var POOL={
+      night:[[shooting],[fishJump],[bats],[shooting,fishJump]],
+      dawn:[[fishJump],[birdPerch],[fishJump,birdPerch],[ducks]],
+      day:[[deer,birdPerch],[deer],[birdPerch,fishJump],[ducks,birdsFly],[deer,birdsFly]],
+      dusk:[[bats],[ducks,bats],[deer,bats],[fishJump,ducks]]
+    };
+    function start(){ clear(); fit(); var ph=(/[?&]lake=(dawn|day|dusk|night)/.exec(location.search)||[])[1]||DOCK_PH; phNow=ph; visit++; LL.className='lakelife '+ph;
+      if(ph==='night'){ stars(); fireflies() }
+      if(RM) return;
+      var pool=POOL[ph], pick=pool[(visit*7+Math.floor(Math.random()*pool.length))%pool.length];
+      pick.forEach(function(f,i){ later(f,1200+i*2500) }) }
+    window.LAKELIFE={start:start,stop:clear,play:function(n){ ({deer:deer,ducks:ducks,bats:bats,birdPerch:birdPerch,fishJump:fishJump,birdsFly:birdsFly,shooting:shooting})[n]() }};
+  })();
 
   show(location.hash.slice(1)||'exterior');
 })();
